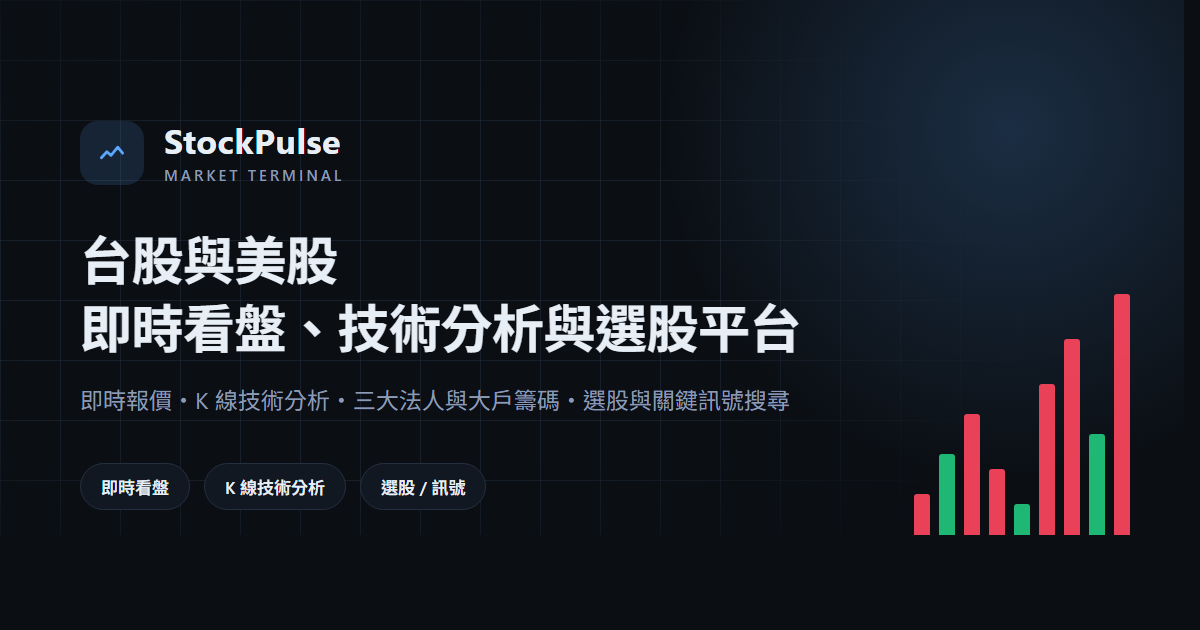
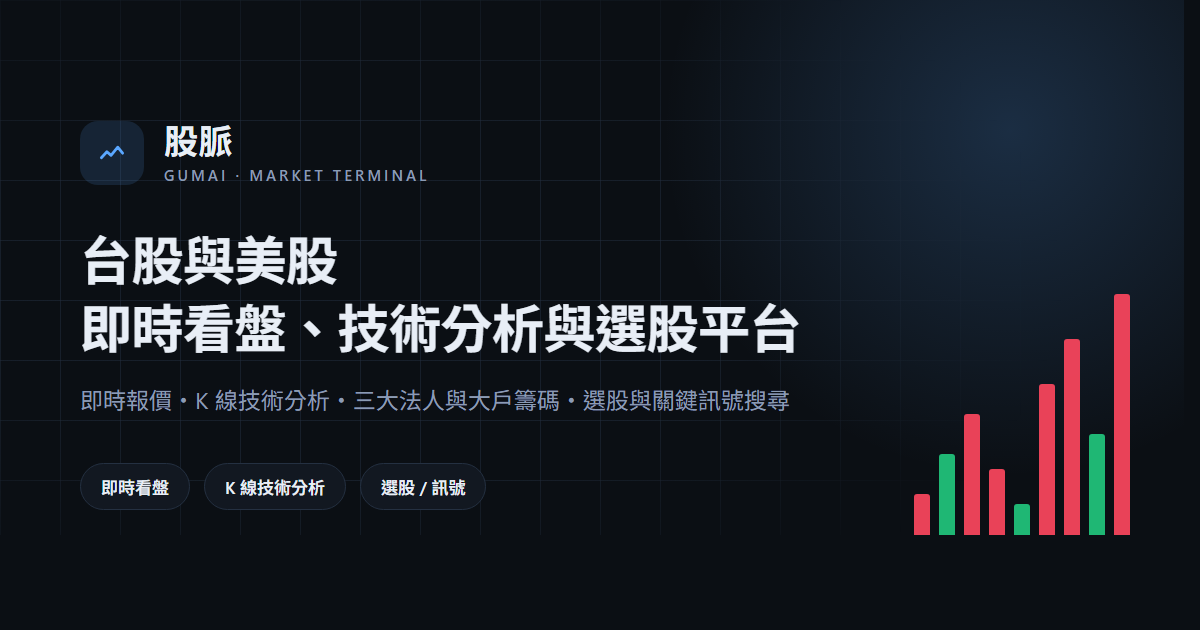
rebrand: StockPulse -> 股脈 GuMai
StockPulse turned out to already be in use by several unrelated stock apps
(stockpulse.ai, stockpulse.pro, 4+ App Store listings). Checked a shortlist
of alternatives before renaming — Panscope and Candlewave also came back
clean, 股脈 (GuMai) was picked.

- nuxt.config.js: public.siteName (flows into OG/JSON-LD everywhere through
  the shared usePageSeo/useWebPageJsonLd composables)
- AppHeader.vue / AppFooter.vue: brand name + tagline ("GuMai · Market
  Terminal"), footer copyright
- Every page's <title>/description string, error.vue
- public/og-image.png: regenerated with the new name (same brand card,
  same method — headless-Chrome screenshot of a local HTML file)
- package.json name: stockpulse -> gumai; README title
- server/utils/{yahoo,twse,tdcc,market-index}.js: outbound User-Agent
  strings (Mozilla/5.0 (StockPulse) -> Mozilla/5.0 (GuMai)) — cosmetic,
  server-side only, but for consistency

Verified: 0 remaining "StockPulse" matches in tracked source; production
build's prerendered homepage title/og:site_name/header all show 股脈.

Changed region(s): [[0.1233, 0.181, 0.37, 0.3016]]

diff --git a/app/pages/index.vue b/app/pages/index.vue
@@ -4,9 +4,9 @@
 
     <header class="page__intro">
       <p class="eyebrow">台股 · 美股 · 即時看盤</p>
-      <h1>StockPulse 台股與美股即時看盤與選股平台</h1>
+      <h1>股脈 台股與美股即時看盤與選股平台</h1>
       <p class="lede">
-        StockPulse 提供台灣加權指數、櫃買指數與台股、美股個股的即時報價、K 線技術分析、三大法人與大戶籌碼、選股與關鍵訊號搜尋。
+        股脈 提供台灣加權指數、櫃買指數與台股、美股個股的即時報價、K 線技術分析、三大法人與大戶籌碼、選股與關鍵訊號搜尋。
         登入後可建立自選股分類，並在 K 線圖上自行畫線，紀錄保存到帳號。
       </p>
     </header>
@@ -51,9 +51,9 @@
 </template>
 
 <script setup>
-const title = 'StockPulse｜台股與美股即時看盤與選股平台'
+const title = '股脈｜台股與美股即時看盤與選股平台'
 const description =
-  'StockPulse 是台股與美股即時看盤、技術分析與選股平台，提供即時報價、日 K／週 K／60 分 K、均線、三大法人、大戶籌碼、選股與關鍵訊號搜尋。'
+  '股脈 是台股與美股即時看盤、技術分析與選股平台，提供即時報價、日 K／週 K／60 分 K、均線、三大法人、大戶籌碼、選股與關鍵訊號搜尋。'
 
 const { data: stockData } = await useApiFetch('/stocks', { key: 'home-stocks' })
 const stocks = computed(() => stockData.value?.items ?? [])

diff --git a/server/utils/yahoo.js b/server/utils/yahoo.js
@@ -27,7 +27,7 @@ function yahooAltSymbol(stock) {
 async function fetchChart(ySymbol, interval, range) {
   const res = await $fetch(`${BASE}/${encodeURIComponent(ySymbol)}`, {
     params: { interval, range, includePrePost: 'false' },
-    headers: { 'User-Agent': 'Mozilla/5.0 (StockPulse)' },
+    headers: { 'User-Agent': 'Mozilla/5.0 (GuMai)' },
     timeout: 12000,
     retry: 0
   })
@@ -90,7 +90,7 @@ export async function getYahooMeta(symbol) {
   try {
     const res = await $fetch(`${BASE}/${encodeURIComponent(symbol)}`, {
       params: { interval: '1d', range: '5d' },
-      headers: { 'User-Agent': 'Mozilla/5.0 (StockPulse)' },
+      headers: { 'User-Agent': 'Mozilla/5.0 (GuMai)' },
       timeout: 10000,
       retry: 0
     })
@@ -117,7 +117,7 @@ async function fetchQuoteFor(ySymbol) {
 
   const res = await $fetch(`${BASE}/${encodeURIComponent(ySymbol)}`, {
     params: { interval: '1d', range: '1d' },
-    headers: { 'User-Agent': 'Mozilla/5.0 (StockPulse)' },
+    headers: { 'User-Agent': 'Mozilla/5.0 (GuMai)' },
     timeout: 10000,
     retry: 0
   })
@@ -201,7 +201,7 @@ export async function getYahooIntradayBySymbol(ySymbol) {
   try {
     const res = await $fetch(`${BASE}/${encodeURIComponent(ySymbol)}`, {
       params: { interval: '1m', range: '1d', includePrePost: 'false' },
-      headers: { 'User-Agent': 'Mozilla/5.0 (StockPulse)' },
+      headers: { 'User-Agent': 'Mozilla/5.0 (GuMai)' },
       timeout: 12000,
       retry: 0
     })

diff --git a/server/utils/twse.js b/server/utils/twse.js
@@ -39,7 +39,7 @@ async function fetchMonthRaw(stockNo, year, month) {
   const date = `${year}${String(month).padStart(2, '0')}01`
   const res = await $fetch(STOCK_DAY, {
     params: { date, stockNo, response: 'json' },
-    headers: { 'User-Agent': 'Mozilla/5.0 (StockPulse)' },
+    headers: { 'User-Agent': 'Mozilla/5.0 (GuMai)' },
     timeout: 12000,
     retry: 0
   })
@@ -109,7 +109,7 @@ let allMemo = null
 async function fetchStockDayAllRaw() {
   const text = await throttle(() =>
     $fetch(STOCK_DAY_ALL, {
-      headers: { 'User-Agent': 'Mozilla/5.0 (StockPulse)' },
+      headers: { 'User-Agent': 'Mozilla/5.0 (GuMai)' },
       timeout: 15000,
       retry: 0,
       responseType: 'text'
@@ -266,7 +266,7 @@ export async function getTwseListedCompanies() {
   }
 
   const data = await $fetch('https://openapi.twse.com.tw/v1/opendata/t187ap03_L', {
-    headers: { 'User-Agent': 'Mozilla/5.0 (StockPulse)' },
+    headers: { 'User-Agent': 'Mozilla/5.0 (GuMai)' },
     timeout: 15000,
     retry: 0
   })

diff --git a/nuxt.config.js b/nuxt.config.js
@@ -24,9 +24,9 @@ export default defineNuxtConfig({
     public: {
       // 網站對外網址，用於 canonical、sitemap、OG url，正式環境務必設定
       siteUrl: process.env.NUXT_PUBLIC_SITE_URL || 'http://localhost:3000',
-      siteName: 'StockPulse',
+      siteName: '股脈',
       siteDescription:
-        'StockPulse 是台股與美股即時看盤、技術分析與選股平台，提供即時報價、K 線圖、均線、三大法人與選股工具。',
+        '股脈 是台股與美股即時看盤、技術分析與選股平台，提供即時報價、K 線圖、均線、三大法人與選股工具。',
       // 瀏覽器端呼叫後端用；預設走 Nuxt 同源路徑 /api（未來由 Nitro 代理到後端，避免 CORS 並隱藏內網位址）
       apiBase: process.env.NUXT_PUBLIC_API_BASE || '/api'
     }

diff --git a/app/pages/signals.vue b/app/pages/signals.vue
@@ -177,9 +177,9 @@ const poolNote = computed(() => {
   return '指標快照建立中，暫時顯示示範資料，稍後重新整理即為實際資料。'
 })
 
-const title = '關鍵訊號搜尋｜黃金交叉、突破、外資翻多 | StockPulse'
+const title = '關鍵訊號搜尋｜黃金交叉、突破、外資翻多 | 股脈'
 const description =
-  'StockPulse 關鍵訊號搜尋，掃描台股與美股近期站上均線、黃金交叉、創新高、帶量上漲、跳空、外資翻多與大戶買賣力訊號。'
+  '股脈 關鍵訊號搜尋，掃描台股與美股近期站上均線、黃金交叉、創新高、帶量上漲、跳空、外資翻多與大戶買賣力訊號。'
 const { url, siteUrl } = usePageSeo({ title, description, path: '/signals' })
 useWebPageJsonLd({
   name: title,

diff --git a/app/components/AppHeader.vue b/app/components/AppHeader.vue
@@ -1,7 +1,7 @@
 <template>
   <header class="app-header">
     <div class="app-header__inner">
-      <NuxtLink to="/" class="brand" aria-label="StockPulse 首頁">
+      <NuxtLink to="/" class="brand" aria-label="股脈首頁">
         <span class="brand__mark" aria-hidden="true">
           <svg viewBox="0 0 32 32" fill="none">
             <rect width="32" height="32" rx="8" fill="currentColor" opacity="0.14" />
@@ -15,8 +15,8 @@
           </svg>
         </span>
         <span class="brand__text">
-          <span class="brand__name">StockPulse</span>
-          <span class="brand__tag">Market Terminal</span>
+          <span class="brand__name">股脈</span>
+          <span class="brand__tag">GuMai · Market Terminal</span>
         </span>
       </NuxtLink>
 

diff --git a/app/pages/screener.vue b/app/pages/screener.vue
@@ -165,9 +165,9 @@ function trendClass(change) {
   return t === 'up' ? 'is-up' : t === 'down' ? 'is-down' : ''
 }
 
-const title = '股票選股系統｜技術面與籌碼面選股 | StockPulse'
+const title = '股票選股系統｜技術面與籌碼面選股 | 股脈'
 const description =
-  'StockPulse 選股系統，依站上均線、黃金交叉、突破新高、爆量、跳空、外資連買、投信買超、大戶買賣力等條件篩選台股與美股。'
+  '股脈 選股系統，依站上均線、黃金交叉、突破新高、爆量、跳空、外資連買、投信買超、大戶買賣力等條件篩選台股與美股。'
 const { url, siteUrl } = usePageSeo({ title, description, path: '/screener' })
 useWebPageJsonLd({
   name: title,

diff --git a/app/components/AppFooter.vue b/app/components/AppFooter.vue
@@ -2,7 +2,7 @@
   <footer class="app-footer">
     <div class="app-footer__inner">
       <div class="app-footer__brand">
-        <span class="app-footer__name">StockPulse</span>
+        <span class="app-footer__name">股脈 GuMai</span>
         <p class="app-footer__desc">台股與美股即時看盤、技術分析與選股平台。</p>
       </div>
 
@@ -31,7 +31,7 @@
           資料來源：臺灣證券交易所、證券櫃檯買賣中心、臺灣集中保管結算所、FinMind、Yahoo
           Finance。行情多為盤後或延遲資料，僅供參考，不構成投資建議。
         </p>
-        <p>© {{ year }} StockPulse</p>
+        <p>© {{ year }} 股脈 GuMai</p>
       </div>
     </div>
   </footer>

diff --git a/app/pages/stock/index.vue b/app/pages/stock/index.vue
@@ -38,9 +38,9 @@
 </template>
 
 <script setup>
-const title = '個股分析｜台股與美股股價、K 線與籌碼 | StockPulse'
+const title = '個股分析｜台股與美股股價、K 線與籌碼 | 股脈'
 const description =
-  'StockPulse 個股分析：即時報價、當日走勢、日 K／週 K／60 分 K、均線、三大法人買賣超、大戶與散戶持股變化與大戶買賣力。'
+  '股脈 個股分析：即時報價、當日走勢、日 K／週 K／60 分 K、均線、三大法人買賣超、大戶與散戶持股變化與大戶買賣力。'
 
 const { data: stockData } = await useApiFetch('/stocks', { key: 'stock-index-list' })
 const items = computed(() => stockData.value?.items ?? [])

diff --git a/app/pages/market/weighted/[market].vue b/app/pages/market/weighted/[market].vue
@@ -32,7 +32,7 @@ if (!['TWSE', 'TPEX'].includes(market.value)) {
 
 const label = computed(() => (market.value === 'TWSE' ? '上市' : '上櫃'))
 
-const title = computed(() => `台股${label.value}大型權值股完整清單 | StockPulse`)
+const title = computed(() => `台股${label.value}大型權值股完整清單 | 股脈`)
 const description = computed(
   () => `台股${label.value}大型權值股完整清單，含即時報價與漲跌，點選個股可查看 K 線走勢與三大法人籌碼。`
 )

diff --git a/server/utils/market-index.js b/server/utils/market-index.js
@@ -15,7 +15,7 @@ import { getYahooChartBySymbol, getYahooIntradayBySymbol } from './yahoo'
 const TAIEX_URL = 'https://www.twse.com.tw/rwd/zh/TAIEX/MI_5MINS_HIST?response=json'
 const TPEX_URL = 'https://www.tpex.org.tw/openapi/v1/tpex_index'
 const TTL = 10 * 60 * 1000
-const UA = 'Mozilla/5.0 (StockPulse)'
+const UA = 'Mozilla/5.0 (GuMai)'
 
 const FINMIND_ENABLED = process.env.NUXT_FINMIND_ENABLED !== 'false'
 const YAHOO_ENABLED = process.env.NUXT_YAHOO_ENABLED !== 'false'

diff --git a/app/error.vue b/app/error.vue
@@ -20,12 +20,12 @@ const title = computed(() =>
 )
 const description = computed(() =>
   props.error?.statusCode === 404
-    ? '請確認網址，或從 StockPulse 首頁重新開始。'
+    ? '請確認網址，或從 股脈 首頁重新開始。'
     : '伺服器暫時無法完成這個請求。'
 )
 
 useSeoMeta({
-  title: () => `${title.value} | StockPulse`,
+  title: () => `${title.value} | 股脈`,
   description,
   robots: 'noindex'
 })
